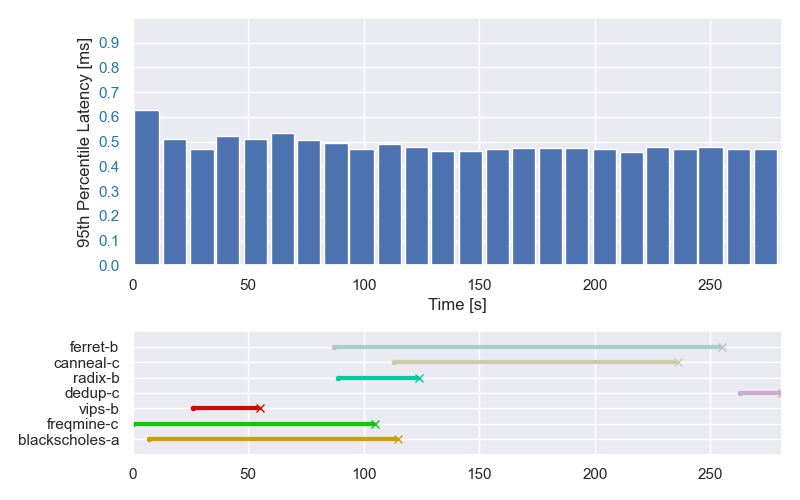
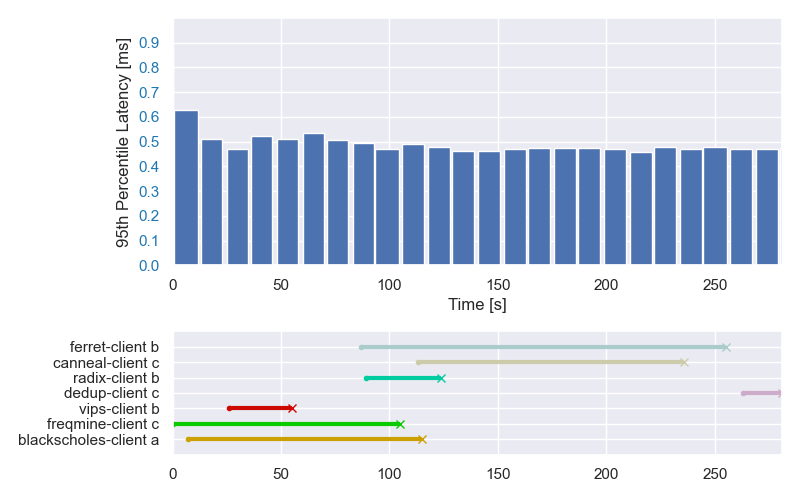
fixed plotting

diff --git a/part3/plot/generate_figure.py b/part3/plot/generate_figure.py
@@ -6,11 +6,12 @@ import itertools
 from datetime import datetime
 from dateutil import parser
 import json
+import matplotlib.patches as mpatches
 
 sns.set_theme()
 
 benchmarks = ['blackscholes', 'freqmine', 'vips', 'dedup', 'radix', 'canneal', 'ferret']
-benchmarks_labels = ['blackscholes-a', 'freqmine-c', 'vips-b', 'dedup-c', 'radix-b', 'canneal-c', 'ferret-b']
+benchmarks_labels = ['blackscholes-client a', 'freqmine-client c', 'vips-client b', 'dedup-client c', 'radix-client b', 'canneal-client c', 'ferret-client b']
 colors = ['#CCA000', '#0CCA00', '#CC0A00', '#CCACCA', '#00CCA0', '#CCCCAA', '#AACCCA']
 runtimes_start = {name: [] for name in benchmarks}
 runtimes_end = {name: [] for name in benchmarks}
@@ -59,7 +60,7 @@ def transform_date_string(str):
     sec= time.minute*60 + time.second
     return sec
 
-def create_figure():
+def create_figures():
 
     for i in range(3):
         mem_file_path = f'part3/plot/memcached_results_run_{i}.txt'
@@ -105,7 +106,7 @@ def create_figure():
 
         fig = plt.figure(figsize=(8, 5))
         length = int(end_sec - start_sec)
-        plt_95p, plt_jobs = fig.subplots(2, 1, gridspec_kw={'height_ratios': [3, 1.5]})
+        plt_95p, plt_jobs = fig.subplots(2, 1, gridspec_kw={'height_ratios': [6, 3]})
 
         plt_jobs.set_yticks(range(7))
         plt_jobs.set_yticklabels(benchmarks_labels)
@@ -116,9 +117,9 @@ def create_figure():
         for j, name in enumerate(benchmarks):
             color = colors[j]
 
-            plt_jobs.hlines(y=j, xmin=runtimes_start[name][0], xmax=runtimes_end[name][0], color=color, linewidth=3)
-            plt_jobs.plot(runtimes_start[name][0],j,'.', color=color) 
-            plt_jobs.plot(runtimes_end[name][0],j,'x', color=color)
+            plt_jobs.hlines(y=j, xmin=runtimes_start[name][i], xmax=runtimes_end[name][i], color=color, linewidth=3)
+            plt_jobs.plot(runtimes_start[name][i],j,'.', color=color) 
+            plt_jobs.plot(runtimes_end[name][i],j,'x', color=color)
 
         plt_95p.set_xlim([0, length])
         plt_95p.set_xlabel("Time [s]")
@@ -134,7 +135,105 @@ def create_figure():
 
         plt.subplots_adjust(hspace=0.2, bottom=0.2)
         fig.tight_layout()
+        #plt.show()
         fig.savefig(f'part3/figure_3_run{i}.png')
+
+
+def create_unified_figure():
+
+    for i in range(3):
+        mem_file_path = f'part3/plot/memcached_results_run_{i}.txt'
+        res_file_path = f'part3/plot/results_run_{i}.json'
+        result_mem = pd.read_csv(mem_file_path, delim_whitespace=True)
+        res_file = open(res_file_path)
+        results = json.load(res_file)
+        result_mem["p95"] = result_mem["p95"].divide(1000.0)  # convert to ms
+        result_items = results['items']
+        max = 0
+        end_times_str = []
+        for element in result_items:
+            el = element['status']['containerStatuses'][0]['state']
+            if 'terminated' not in el:
+                continue
+            end_times_str.append(el['terminated']['finishedAt'])
+
+        for str in end_times_str:
+            second = transform_date_string(str)
+            if (second) > max:
+                max = second
+
+        min = 50000000
+        start_times_str = []
+        for element in result_items:
+            el = element['status']['containerStatuses'][0]['state']
+            if 'terminated' not in el:
+                continue
+            start_times_str.append(el['terminated']['startedAt'])
+
+        for str in start_times_str:
+            second = transform_date_string(str)
+            if (second) < min:
+                min = second
+
+        start_sec= min 
+        end_sec = max  
+
+        for name in benchmarks:
+            s, e = get_benchmark_times(result_items, name)
+            runtimes_start[name].append(s - start_sec)
+            runtimes_end[name].append(e - start_sec)
+
+        fig = plt.figure(figsize=(8, 5))
+        length = int(end_sec - start_sec)
+
+
+        plt.xlim([0, length])
+        plt.xlabel("Time [s]")
+        plt.xticks(range(0, length, 50))
+        plt.grid(True)
+        plt.ylabel("95th Percentile Latency [ms]")
+        plt.tick_params(axis='y', labelcolor='tab:blue')
+        plt.ylim([0, 1.0])
+        plt.yticks(np.arange(0, 1.0, 0.1))
+        start = get_memcached_start(result_mem["ts_start"],start_sec)
+        width = get_memcached_width(result_mem["ts_start"],result_mem["ts_end"])
+        plt.bar(start, result_mem["p95"], align='center', width=width)
+
+
+        plt.hlines(y=0.1, xmin=runtimes_start['blackscholes'][i], xmax=runtimes_end['blackscholes'][i], color=colors[0], linewidth=3)
+        plt.plot(runtimes_start['blackscholes'][i],0.1,'.', color=colors[0]) 
+        plt.plot(runtimes_end['blackscholes'][i],0.1,'x', color=colors[0])
+        
+        plt.hlines(y=0.2, xmin=runtimes_start['freqmine'][i], xmax=runtimes_end['freqmine'][i], color=colors[1], linewidth=3)
+        plt.plot(runtimes_start['freqmine'][i],0.2,'.', color=colors[1]) 
+        plt.plot(runtimes_end['freqmine'][i],0.2,'x', color=colors[1])
+        plt.hlines(y=0.2, xmin=runtimes_start['canneal'][i], xmax=runtimes_end['canneal'][i], color=colors[5], linewidth=3)
+        plt.plot(runtimes_start['canneal'][i],0.2,'.', color=colors[5]) 
+        plt.plot(runtimes_end['canneal'][i],0.2,'x', color=colors[5])
+        plt.hlines(y=0.2, xmin=runtimes_start['dedup'][i], xmax=runtimes_end['dedup'][i], color=colors[3], linewidth=3)
+        plt.plot(runtimes_start['dedup'][i],0.2,'.', color=colors[3]) 
+        plt.plot(runtimes_end['dedup'][i],0.2,'x', color=colors[3])
+
+        plt.hlines(y=0.3, xmin=runtimes_start['vips'][i], xmax=runtimes_end['vips'][i], color=colors[2], linewidth=3)
+        plt.plot(runtimes_start['vips'][i],0.3,'.', color=colors[2]) 
+        plt.plot(runtimes_end['vips'][i],0.3,'x', color=colors[2])
+        plt.hlines(y=0.3, xmin=runtimes_start['ferret'][i], xmax=runtimes_end['ferret'][i], color=colors[6], linewidth=3)
+        plt.plot(runtimes_start['ferret'][i],0.3,'.', color=colors[6]) 
+        plt.plot(runtimes_end['ferret'][i],0.3,'x', color=colors[6])
+
+        plt.hlines(y=0.4, xmin=runtimes_start['radix'][i], xmax=runtimes_end['radix'][i], color=colors[4], linewidth=3)
+        plt.plot(runtimes_start['radix'][i],0.4,'.', color=colors[4]) 
+        plt.plot(runtimes_end['radix'][i],0.4,'x', color=colors[4])
+
+        legends_handles = []
+        for k, name in enumerate(benchmarks_labels):
+            patch = mpatches.Patch(color=colors[k], label=name)
+            legends_handles.append(patch)
+        plt.legend(handles=legends_handles)
+
+        fig.tight_layout()
+        #plt.show()
+        fig.savefig(f'part3/figure_3_unified_run{i}.png')
 
 
 
@@ -143,4 +242,5 @@ def create_figure():
     
     
 if __name__ == "__main__":
-    create_figure()
+    create_figures()
+    create_unified_figure()
